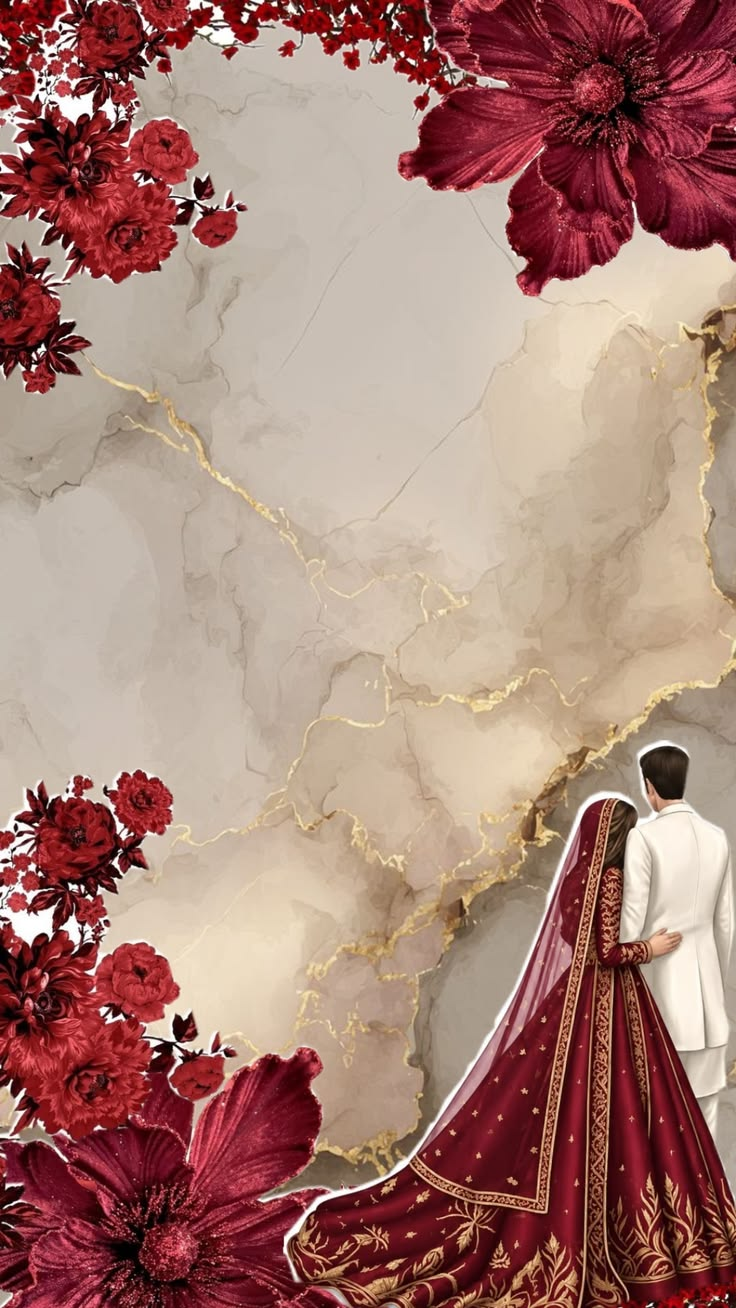
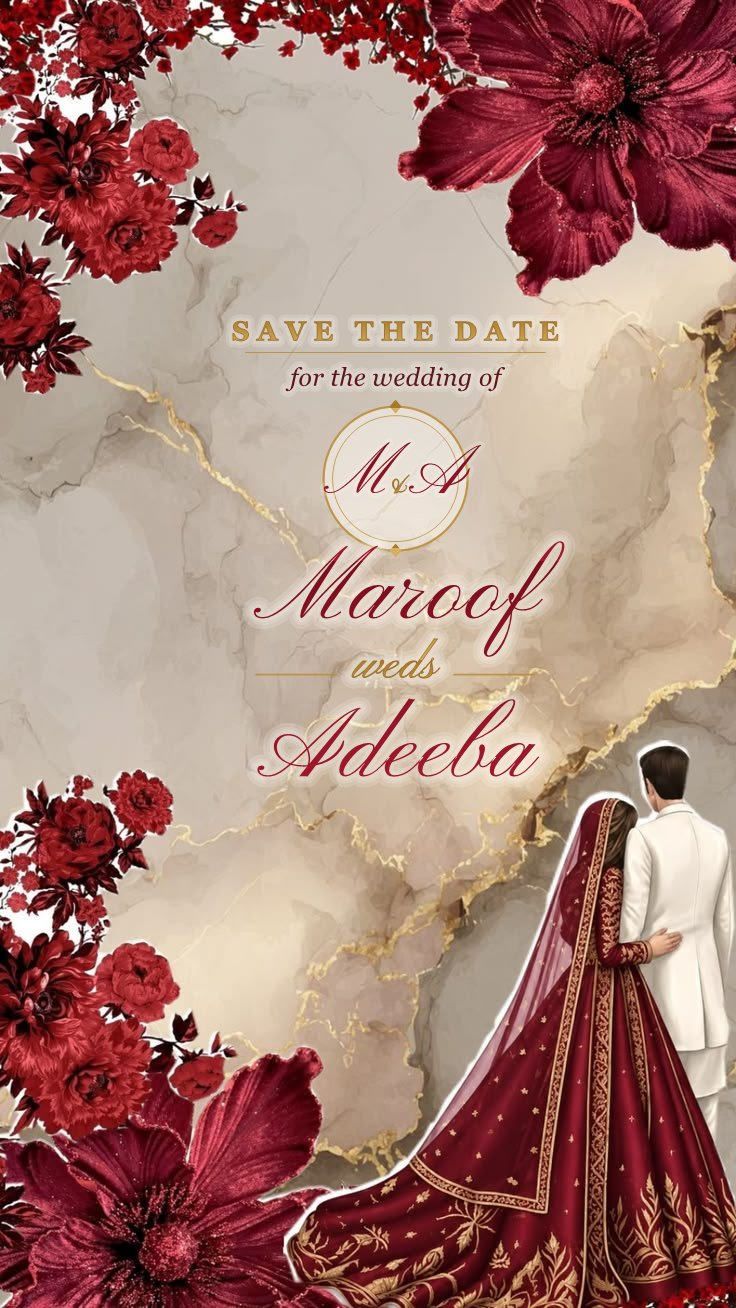
Add Save the Date text, M & A monogram and names to link preview image

Changed region(s): [[0.3125, 0.2446, 0.7812, 0.6116]]

diff --git a/index.html b/index.html
@@ -5,13 +5,13 @@
 <meta property="og:type" content="website">
 <meta property="og:title" content="Maroof &amp; Adeeba · Wedding Invitation">
 <meta property="og:description" content="Nikah Friday 27 November · Walima Sunday 29 November 2026, 7:00 PM · The Classic Resort, Saharanpur">
-<meta property="og:image" content="https://raw.githubusercontent.com/Aqibm34/wedding_invitation_maroof/main/og-image.jpg">
+<meta property="og:image" content="https://raw.githubusercontent.com/Aqibm34/wedding_invitation_maroof/main/og-image.jpg?v=2">
 <meta property="og:image:type" content="image/jpeg">
 <meta property="og:image:width" content="736">
 <meta property="og:image:height" content="1308">
-<meta property="og:image:alt" content="A bride in a deep red lehenga and a groom in ivory, framed by red flowers on gold-veined marble">
+<meta property="og:image:alt" content="Save the date for the wedding of Maroof and Adeeba: an M and A monogram above their names, with a bride in red and a groom in ivory among red flowers on gold-veined marble">
 <meta name="twitter:card" content="summary_large_image">
-<meta name="twitter:image" content="https://raw.githubusercontent.com/Aqibm34/wedding_invitation_maroof/main/og-image.jpg">
+<meta name="twitter:image" content="https://raw.githubusercontent.com/Aqibm34/wedding_invitation_maroof/main/og-image.jpg?v=2">
 <meta name="theme-color" content="#0F3B2E">
 <link rel="preconnect" href="https://fonts.googleapis.com">
 <link rel="preconnect" href="https://fonts.gstatic.com" crossorigin>
